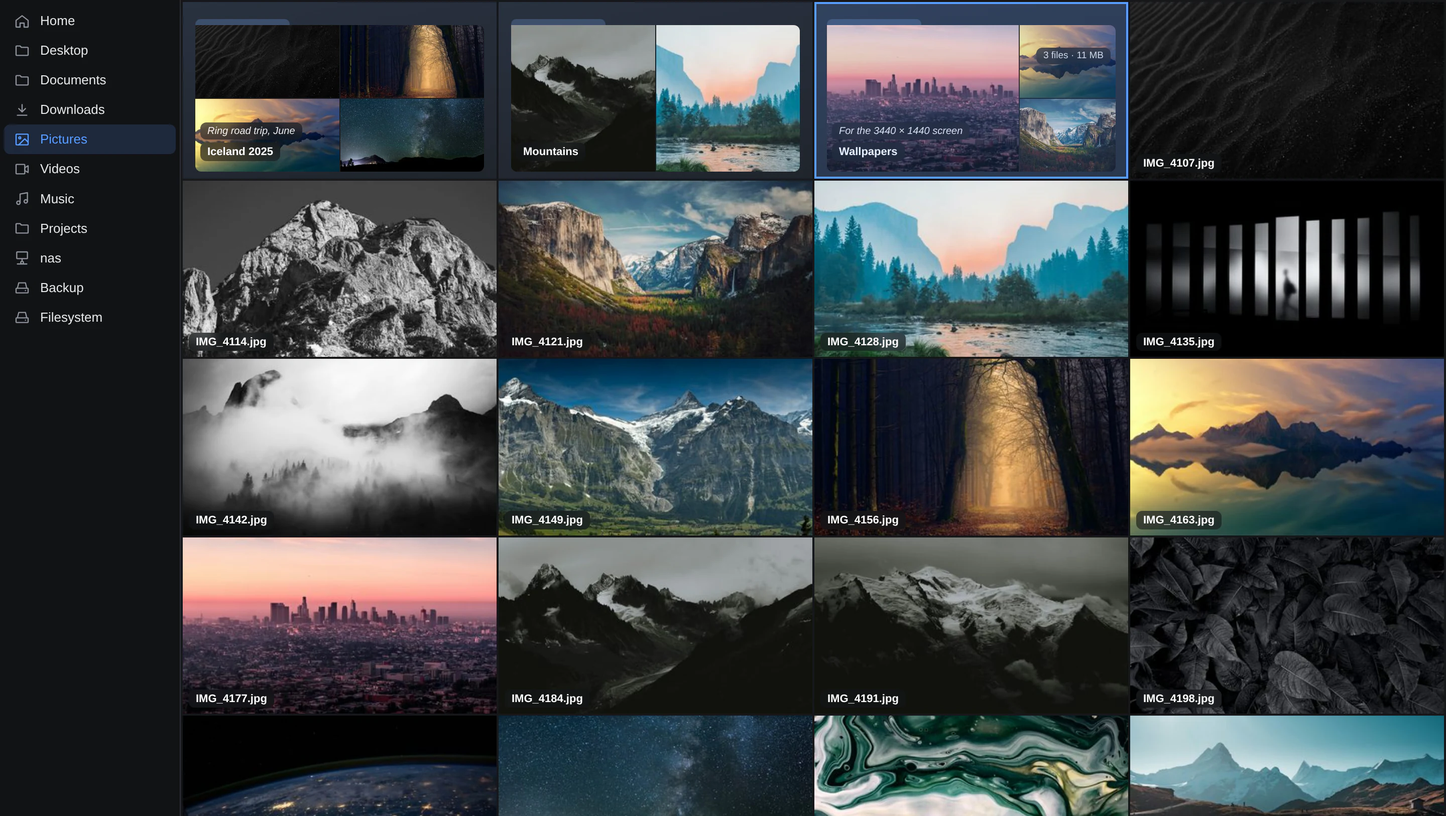
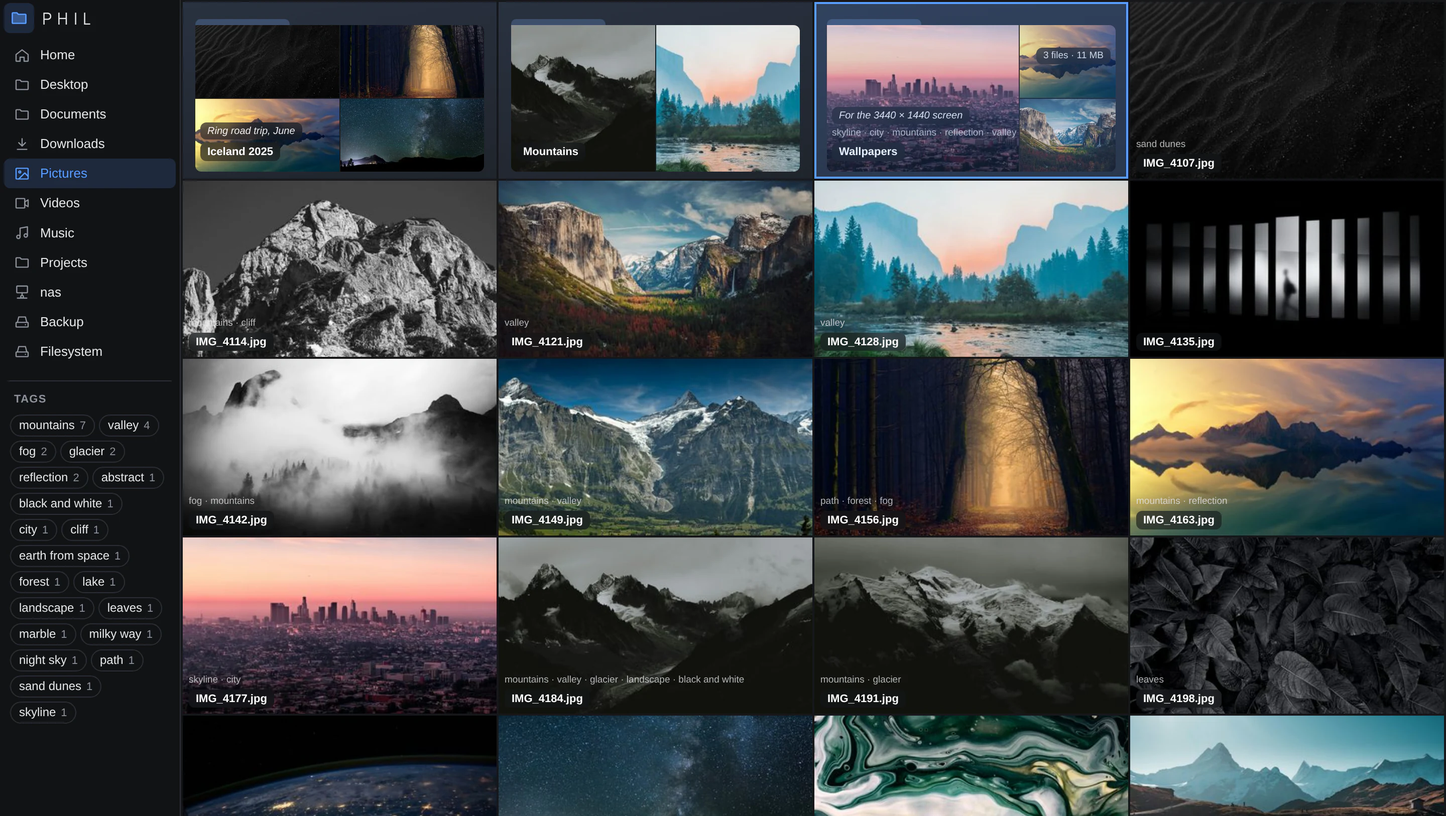
README screenshots again: the sidebar header and button, tags, and searching by description
Claude-Session: https://claude.ai/code/session_017ARhVFPUT4MnMeCqxVuHaJ

diff --git a/README.md b/README.md
@@ -5,16 +5,18 @@ runs on. The UI is plain HTML/CSS/JS rendered by the system WebKitGTK; the
 backend is JavaScript running on Deno. No bundled browser, no npm dependencies.\
 Developed and tested on Omarchy, the install scripts assumes a similar setup.
 
-![phil showing a Pictures folder: photo thumbnails, folders with previews of what's inside, and a description on a folder](docs/screenshots/pictures.webp)
+![phil showing a Pictures folder: photo thumbnails with their tags, folders with previews of what's inside, and the folder's tags in the sidebar](docs/screenshots/pictures.webp)
 
 | | |
 |---|---|
-| ![Home folder: each folder's tile previews its first files, photos, code and documents alike](docs/screenshots/home.webp) | ![Documents with text tiles, and the terminal panel following the folder](docs/screenshots/terminal.webp) |
-| Folders preview what's in them: pictures, text, code, PDFs | The terminal panel follows the folder you're in, and the other way round |
-| ![textedit showing Markdown as it reads, editable](docs/screenshots/markdown.webp) | ![textedit with syntax highlighting](docs/screenshots/code.webp) |
-| Markdown, edited as it reads (textedit) | Code, highlighted (textedit) |
-| ![imageresize cropping a photo to an ultrawide wallpaper](docs/screenshots/resize.webp) | ![The chips theme](docs/screenshots/chips.webp) |
-| Resize, crop, turn and compress (imageresize) | Themes: here, chips |
+| ![The filter box finding pictures by what they show](docs/screenshots/search.webp) | ![Home folder: each folder's tile previews its first files, photos, code and documents alike](docs/screenshots/home.webp) |
+| Search by description: "mountains reflected in a lake" (auto-tagging, SigLIP 2) | Folders preview what's in them, and their most common tags |
+| ![Documents with text tiles, and the terminal panel following the folder](docs/screenshots/terminal.webp) | ![textedit showing Markdown as it reads, editable](docs/screenshots/markdown.webp) |
+| The terminal panel follows the folder you're in, and the other way round | Markdown, edited as it reads (textedit) |
+| ![textedit with syntax highlighting](docs/screenshots/code.webp) | ![imageresize cropping a photo to an ultrawide wallpaper](docs/screenshots/resize.webp) |
+| Code, highlighted (textedit) | Resize, crop, turn and compress (imageresize) |
+| ![The chips theme](docs/screenshots/chips.webp) | |
+| Themes: here, chips | |
 
 <sub>Photos from [Unsplash](https://unsplash.com).</sub>
 
